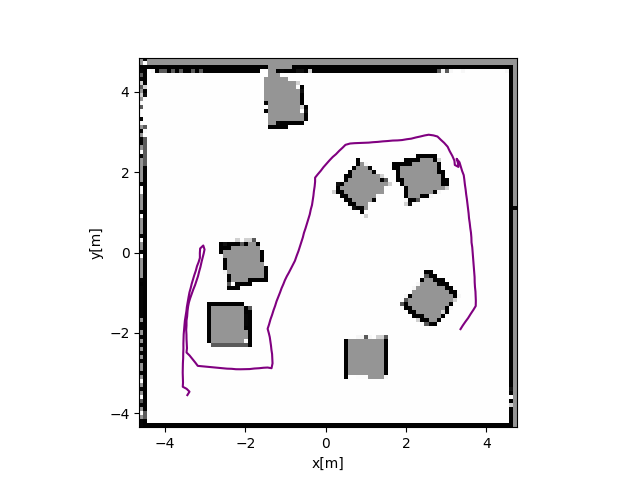
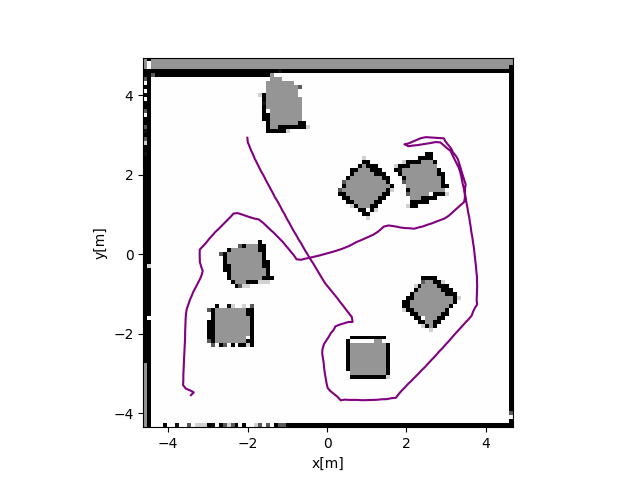
code/logic cleanup

diff --git a/explorer/explorer.py b/explorer/explorer.py
@@ -123,11 +123,11 @@ class Explorer:
             self.planner.update_gridmap(self.map)
 
             if not self._is_goal_valid():
-                print("Planning the new goal..")
+                print("Planning the new goal")
                 self._plan_goal()
 
             if not self._is_path_valid():
-                print("Planning the path to the goal...")
+                print("Planning the path to the goal")
                 self._plan_path()
 
             time.sleep(1)
@@ -151,9 +151,10 @@ class Explorer:
                     self.planned_path.poses.pop(0)  # arrived to this waypoint
                     if self.planned_path.poses:
                         waypoint = self.planned_path.poses[0]  # new waypoint
-                        print(f"New waypoint: {waypoint.position}")
+                        print(f"Next waypoint: {waypoint.position}")
                         self.controller.goto(waypoint)
                     else:
+                        print("Goal reached")
                         self.goal = None  # signal that we need a new goal
                     self.lock.release()
 
@@ -162,7 +163,8 @@ class Explorer:
     def _is_goal_valid(self) -> bool:
         if self.done or self.goal is None:
             return False
-        return self.planner.is_pose_reachable(self.pose)
+        # return self.planner.is_pose_reachable(self.pose)
+        return True
 
     def _is_path_valid(self) -> bool:
         if self.done or self.goal is None or not self.planned_path.poses:
@@ -170,7 +172,6 @@ class Explorer:
         return self.planner.is_path_executable(self.planned_path)
 
     def _plan_goal(self):
-        print("Detecting free-edge frontiers...")
         # compute utility of a frontier as the ratio of information gain and path length
         frontiers = self.planner.find_frontiers()
         inf_gain, path_lengths = self.planner.find_frontiers_inf_gain(
@@ -186,7 +187,7 @@ class Explorer:
             print(f"New goal: {frontier.position}")
             self.goal = frontier
         else:
-            print("No more reachable frontiers. Finishing exploration.")
+            print("No more reachable frontiers. Finishing exploration")
             self.done = True
         self.lock.release()
 
@@ -196,12 +197,18 @@ class Explorer:
 
         # plan the new path to the goal
         path, _ = self.planner.plan_path(self._last_valid_pose, self.goal)
-        print(f"Path found, {len(path.poses)-1} waypoints")
-
-        self.lock.acquire()
-        self.controller.stop()
-        self.planned_path = path
-        self.lock.release()
+        if path.poses:
+            self.lock.acquire()
+            print(f"Path found, {len(path.poses)-1} waypoints")
+            self.controller.stop()
+            self.planned_path = path
+            self.lock.release()
+        else:
+            self.lock.acquire()
+            print("Path not found dropping the goal")
+            self.controller.stop()
+            self.goal = None  # signal that we need a new goal
+            self.lock.release()
 
     def _record_pose(self):
         if not self.executed_path.poses or self.pose.dist(self.executed_path.poses[-1]) > PLOTTING_STEP:

diff --git a/run_explorer.py b/run_explorer.py
@@ -10,12 +10,9 @@ from messages import OccupancyGrid, Path
 
 
 def main():
-    # instantiate the robot
     ex0 = Explorer(0)
-    # start the locomotion
     ex0.start()
 
-    # continuously plot the map, planned and executed path
     fig, ax = plt.subplots()
     plt.ion()
 

diff --git a/tests/test_frontiers.py b/tests/test_frontiers.py
@@ -1,5 +1,4 @@
 #!/usr/bin/env python3
-# -*- coding: utf-8 -*-
 
 import sys
 import pickle
@@ -7,7 +6,6 @@ import pickle
 import numpy as np
 import matplotlib.pyplot as plt
 
-sys.path.append("..")
 from explorer import Planner
 from utils import point_to_pose
 

diff --git a/tests/test_mapping.py b/tests/test_mapping.py
@@ -1,10 +1,8 @@
 #!/usr/bin/env python3
-# -*- coding: utf-8 -*-
 
 import sys
 import matplotlib.pyplot as plt
 
-sys.path.append("..")
 from explorer import Mapper
 from controller import HexapodController
 from messages import Pose, Vector3, Quaternion

diff --git a/tests/test_navigation.py b/tests/test_navigation.py
@@ -1,11 +1,9 @@
 #!/usr/bin/env python3
-# -*- coding: utf-8 -*-
 
 import sys
 import time
 import matplotlib.pyplot as plt
 
-sys.path.append("..")
 import controller
 from messages import Path, Pose, Vector3, Quaternion
 

diff --git a/tests/test_planning.py b/tests/test_planning.py
@@ -1,12 +1,10 @@
 #!/usr/bin/env python3
-# -*- coding: utf-8 -*-
 
 import sys
 import pickle
 
 import matplotlib.pyplot as plt
 
-sys.path.append("..")
 from explorer import Planner
 
 ROBOT_SIZE = 0.3

diff --git a/explorer/const.py b/explorer/const.py
@@ -7,7 +7,7 @@ PLOTTING_STEP = 0.1
 MAP_RESOLUTION = 0.1
 ASTAR_TOLERANCE_FACTOR = 2.0
 OBSTACLE_GROWTH_FACTOR = 1.5
-MIN_CELLS_PER_CENTROID = 20
+MIN_CELLS_PER_CENTROID = 10
 
 
 class SENSOR:
